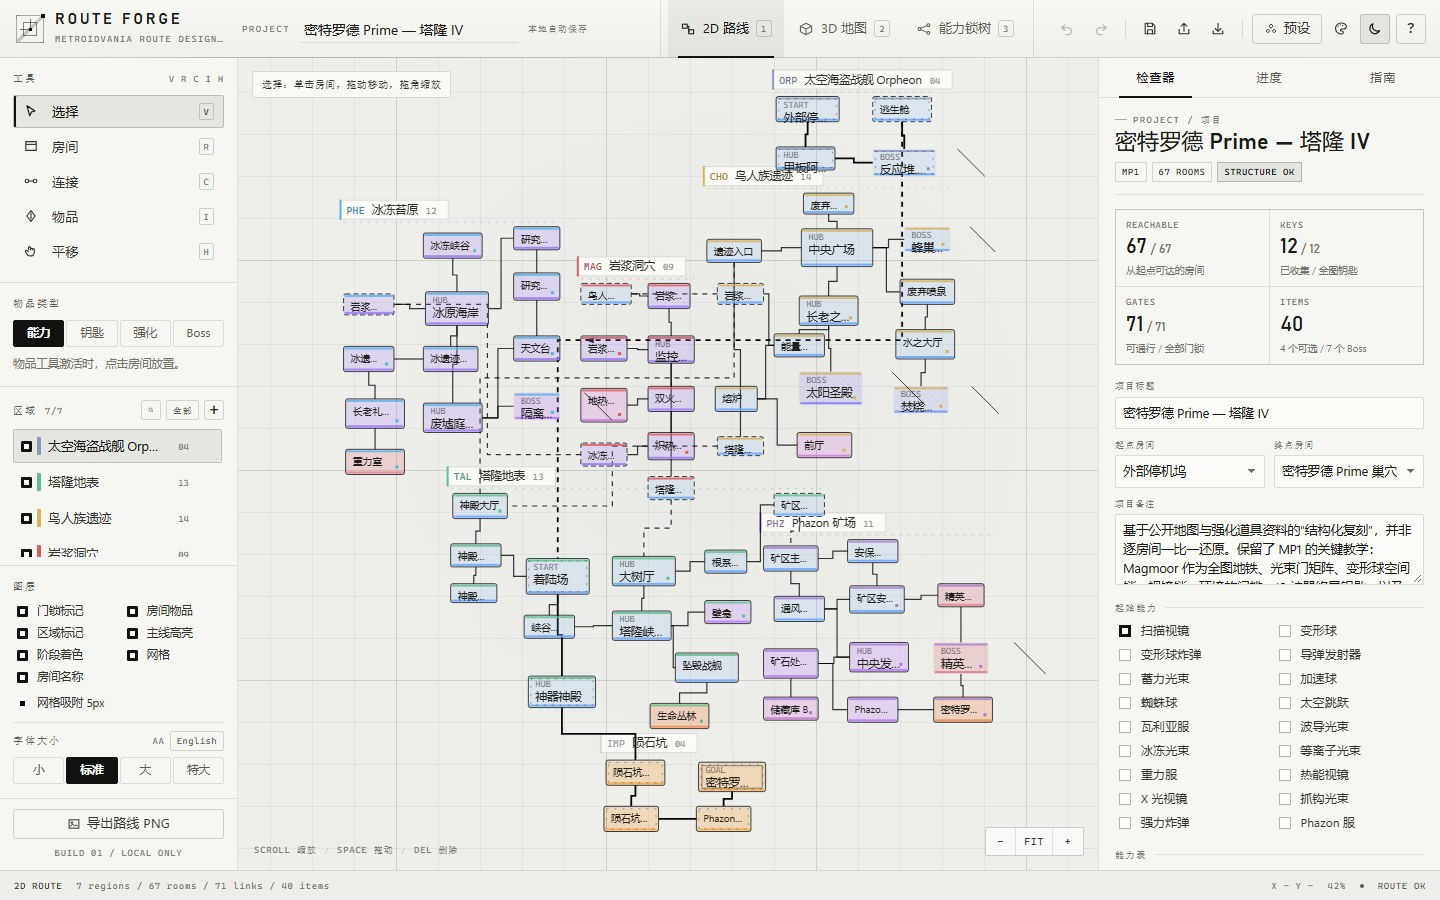
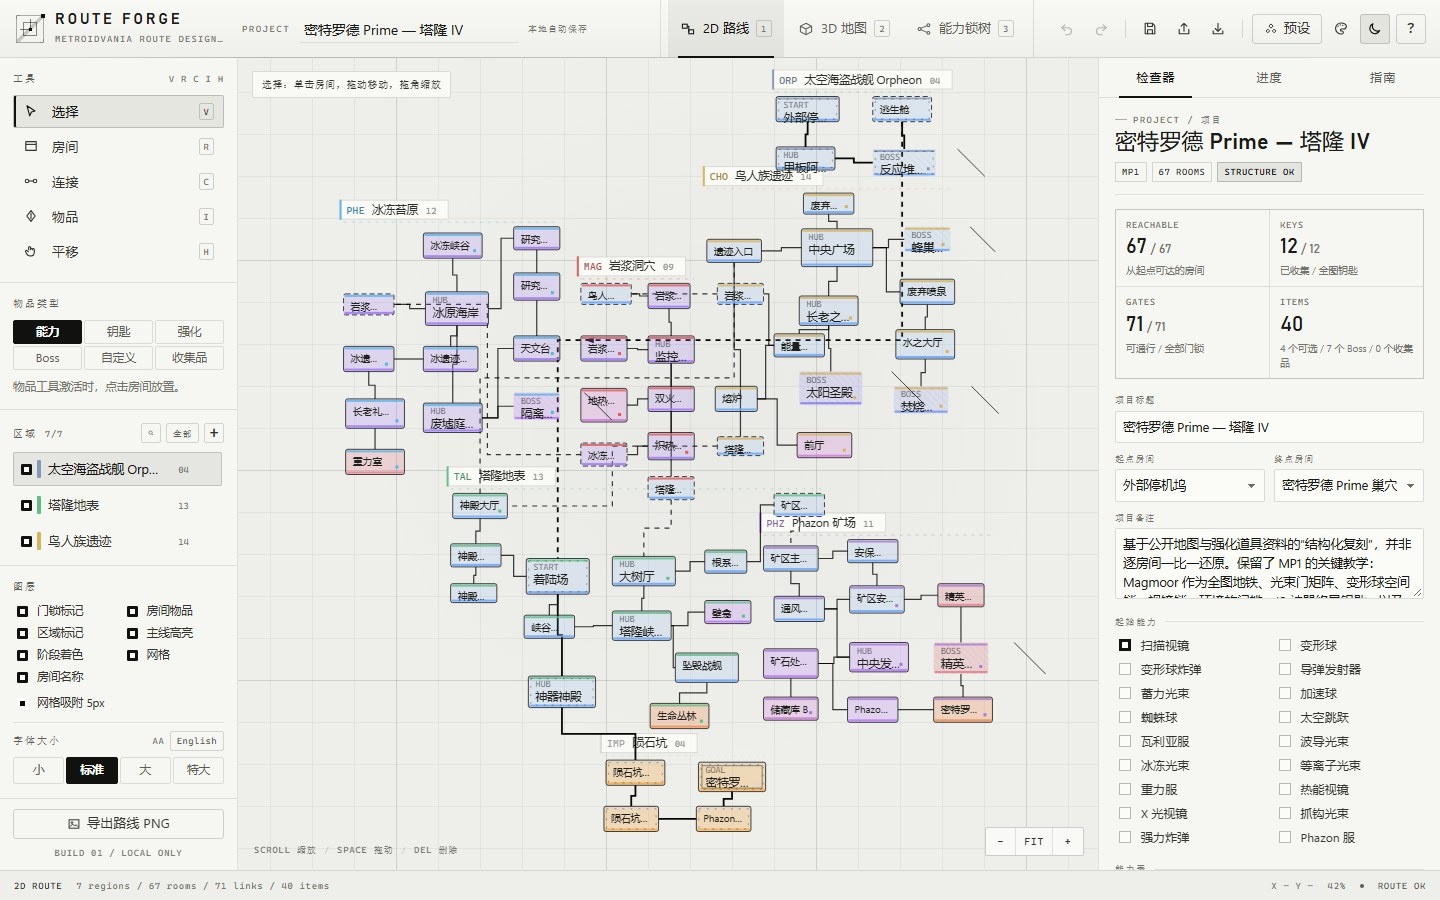
feat: add custom items and collectibles
Add custom and collectible item kinds, quick ability creation in item/link inspectors, and let custom abilities drive custom ability locks. Collectibles are hint-only: forced optional, no ability grant, excluded from the progression timeline and lock tree, but counted on the map and in project stats.

Changed region(s): [[0.7812, 0.4044, 1.0, 0.9644], [0.0, 0.3422, 0.1562, 0.6222]]

diff --git a/js/app.js b/js/app.js
@@ -161,7 +161,7 @@
     if (typeof savedUI.treeMainOnly === 'boolean') app.treeMainOnly = savedUI.treeMainOnly;
     if (savedUI.colorMode === 'mono' || savedUI.colorMode === 'color') app.colorMode = savedUI.colorMode;
     if (['inspect', 'progress', 'guide'].includes(savedUI.rightTab)) app.rightTab = savedUI.rightTab;
-    if (['ability', 'key', 'upgrade', 'boss'].includes(savedUI.itemKind)) app.itemKind = savedUI.itemKind;
+    if (['ability', 'key', 'upgrade', 'boss', 'custom', 'collectible'].includes(savedUI.itemKind)) app.itemKind = savedUI.itemKind;
     if (['select', 'room', 'connect', 'item', 'pan'].includes(savedUI.tool)) app.tool = savedUI.tool;
 
     let project = MV.loadProject();
@@ -813,9 +813,13 @@
           </select></label>
           ${numberField(L('钥匙数', 'Keys'), 'keyReq', link.keyReq, 1, 0)}
         </div>
-        <p class="hint-line">${esc(gate.desc)} ${L('修改门锁类型会重置下方能力需求；之后可继续自定义勾选。', 'Changing the gate type resets the ability requirements below; you can then customize them.')}</p>
+        <p class="hint-line">${esc(gate.desc)} ${L('选择「自定义能力锁」后可勾选任意能力；也可在下方新建能力并自动勾选。', 'Choose “Custom Ability Lock” to tick any ability, or create a new ability below and it will be checked automatically.')}</p>
         <div class="section-label">${L('能力需求', 'Ability Requirements')}</div>
         ${app.project.abilities.length ? `<div class="check-grid">${app.project.abilities.map(ability => `<label class="check-field"><input type="checkbox" data-field="requires" data-ability="${esc(ability.id)}" ${link.requires.includes(ability.id) ? 'checked' : ''}><span>${esc(MV.abilityName(app.project, ability.id))}</span></label>`).join('')}</div>` : `<p class="hint-line">${L('项目能力表为空，请先在项目检查器中添加能力。', 'The project ability list is empty. Add abilities in the project inspector first.')}</p>`}
+        <div class="inline-form ability-quick">
+          <input data-quick-ability placeholder="${L('新建能力并勾选，例如：二段跳', 'Create and check an ability, e.g. Double Jump')}" maxlength="24">
+          <button data-action="quick-ability" data-target="link" title="${L('新建并勾选能力', 'Create and check ability')}">+</button>
+        </div>
         ${missingAbilities.length ? `<div class="req-list">${missingAbilities.map(id => `<span class="req-chip missing">${L('缺失', 'Missing')}: ${esc(id)}</span>`).join('')}</div>` : ''}
         <div class="section-label">${L('状态', 'Status')}</div>
         <div class="req-list">
@@ -849,15 +853,24 @@
           <label class="field"><span>${L('类别', 'Kind')}</span><select data-field="kind">${MV.ITEM_KINDS.map(k => `<option value="${k.id}" ${k.id === item.kind ? 'selected' : ''}>${k.name}</option>`).join('')}</select></label>
           <label class="field"><span>${L('所在房间', 'Room')}</span><select data-field="room">${app.project.rooms.map(r => `<option value="${esc(r.id)}" ${r.id === item.room ? 'selected' : ''}>${esc(r.name)}</option>`).join('')}</select></label>
         </div>
+        ${item.kind !== 'collectible' ? `
         <label class="field"><span>${L('授予能力', 'Grants Ability')}</span><select data-field="grants">
           <option value="">${L('不授予', 'None')}</option>
           ${app.project.abilities.map(a => `<option value="${esc(a.id)}" ${a.id === item.grants ? 'selected' : ''}>${esc(MV.abilityName(app.project, a.id))} · ${esc(a.id)}</option>`).join('')}
         </select></label>
+        <div class="inline-form ability-quick">
+          <input data-quick-ability placeholder="${L('新建能力并授予，例如：二段跳', 'Create and grant an ability, e.g. Double Jump')}" maxlength="24">
+          <button data-action="quick-ability" data-target="item" title="${L('新建并授予能力', 'Create and grant ability')}">+</button>
+        </div>` : ''}
         ${item.kind === 'key' ? `<div class="form-grid two">${numberField(L('钥匙数量', 'Key Count'), 'keyCount', item.keyCount, 1, 1)}<div></div></div>` : ''}
-        <label class="check-field"><input type="checkbox" data-field="optional" ${item.optional ? 'checked' : ''}><span>${L('可选内容（不参与主线判定）', 'Optional (ignored by the main path)')}</span></label>
+        ${item.kind === 'collectible'
+          ? ''
+          : `<label class="check-field"><input type="checkbox" data-field="optional" ${item.optional ? 'checked' : ''}><span>${L('可选内容（不参与主线判定）', 'Optional (ignored by the main path)')}</span></label>`}
         <label class="field"><span>${L('备注', 'Note')}</span><textarea data-field="note" rows="2">${esc(item.note)}</textarea></label>
       </div>
-      <p class="hint-line">${L('授予能力：拾取后立即加入能力集合。用于能力道具、Boss 旗标或唯一钥匙。钥匙数量：会计入全局钥匙预算。', 'Grants ability: adds the ability as soon as the item is collected. Use it for ability items, boss flags or unique keys. Key count: contributes to the global key budget.')}</p>
+      <p class="hint-line">${item.kind === 'collectible'
+        ? L('收集品只作为“这里有东西”的地图提示，不会成为门锁需求。', 'Collectibles only mark “something is here” on the map and never become gate requirements.')
+        : L('授予能力：拾取后立即加入能力集合。自定义道具也可授予新建能力；新建能力会进入项目能力表，可用于任意自定义能力锁。', 'Grants ability: adds the ability as soon as the item is collected. Custom items can grant a newly created ability, which is added to the project list and can be used by any custom ability lock.')}</p>
       <div class="btn-row">
         <button class="btn" data-action="focus">${L('定位物品', 'Focus Item')}</button>
         <button class="btn btn-danger" data-action="delete-item">${L('删除物品', 'Delete Item')}</button>
@@ -910,7 +923,7 @@
         <div class="stat-cell"><div class="s-label">REACHABLE</div><div class="s-value">${app.analysis.stats.reachableRooms}<span style="font-size:calc(11px * var(--font-scale));color:var(--ink-4)"> / ${counts.rooms}</span></div><div class="s-sub">${L('从起点可达的房间', 'Rooms reachable from start')}</div></div>
         <div class="stat-cell"><div class="s-label">KEYS</div><div class="s-value">${app.analysis.keys}<span style="font-size:calc(11px * var(--font-scale));color:var(--ink-4)"> / ${app.analysis.keysTotal}</span></div><div class="s-sub">${L('已收集 / 全图钥匙', 'Collected / total keys')}</div></div>
         <div class="stat-cell"><div class="s-label">GATES</div><div class="s-value">${app.analysis.openCount}<span style="font-size:calc(11px * var(--font-scale));color:var(--ink-4)"> / ${counts.links}</span></div><div class="s-sub">${L('可通行 / 全部门锁', 'Passable / total gates')}</div></div>
-        <div class="stat-cell"><div class="s-label">ITEMS</div><div class="s-value">${counts.items}</div><div class="s-sub">${counts.optional} ${L('个可选', 'optional')} / ${counts.bosses} ${L('个 Boss', 'bosses')}</div></div>
+        <div class="stat-cell"><div class="s-label">ITEMS</div><div class="s-value">${counts.items}</div><div class="s-sub">${Math.max(0, counts.optional - counts.collectibles)} ${L('个可选', 'optional')} / ${counts.bosses} ${L('个 Boss', 'bosses')} / ${counts.collectibles} ${L('个收集品', 'collectibles')}</div></div>
       </div>
       <div class="form-grid">
         <label class="field"><span>${L('项目标题', 'Project Title')}</span><input data-field="title" value="${esc(app.project.meta.title || L('未命名路线', 'Untitled Route'))}"></label>
@@ -1071,7 +1084,8 @@
       if (field === 'name') { item.name = value || L('未命名物品', 'Untitled Item'); return true; }
       if (field === 'kind') {
         item.kind = value;
-        if (value === 'upgrade') item.optional = true;
+        if (value === 'upgrade' || value === 'collectible') item.optional = true;
+        if (value === 'collectible') item.grants = '';
         if (value !== 'key') item.keyCount = 1;
         return true;
       }
@@ -1122,6 +1136,7 @@
     else if (action === 'focus-region') focusRegion(app.selection.id);
     else if (action === 'delete-ability') deleteAbility(actionBtn.dataset.ability);
     else if (action === 'add-ability') addAbility();
+    else if (action === 'quick-ability') addQuickAbility(actionBtn);
     else if (action === 'open-presets') openPresetModal();
   }
 
@@ -1843,6 +1858,11 @@
       optional = true;
     } else if (kind === 'boss') {
       name = L('Boss ', 'Boss ') + (app.project.items.filter(item => item.kind === 'boss').length + 1);
+    } else if (kind === 'custom') {
+      name = L('自定义道具 ', 'Custom Item ') + (app.project.items.filter(item => item.kind === 'custom').length + 1);
+    } else if (kind === 'collectible') {
+      name = L('收集品 ', 'Collectible ') + (app.project.items.filter(item => item.kind === 'collectible').length + 1);
+      optional = true;
     }
     const item = {
       id: MV.uid('item'),
@@ -1912,6 +1932,37 @@
     toast(L('能力已删除', 'Ability deleted'));
   }
 
+  function addQuickAbility(button) {
+    const form = button ? button.closest('.ability-quick') : null;
+    const input = form ? form.querySelector('input') : null;
+    const name = input ? input.value.trim() : '';
+    if (!name) { toast(L('请输入能力名称', 'Enter an ability name'), true); return; }
+    snapshot();
+    let id = MV.uid('ability');
+    while (app.project.abilities.some(ability => ability.id === id)) id = MV.uid('ability');
+    app.project.abilities.push({ id, name });
+    let suffix = '';
+    if (app.selection) {
+      if (app.selection.type === 'item') {
+        const item = MV.findItem(app.project, app.selection.id);
+        if (item && item.kind !== 'collectible') {
+          item.grants = id;
+          suffix = L('（已授予）', ' (granted)');
+        }
+      } else if (app.selection.type === 'link') {
+        const link = MV.findLink(app.project, app.selection.id);
+        if (link) {
+          link.requires = Array.from(new Set([...(link.requires || []), id]));
+          suffix = L('（已勾选）', ' (checked)');
+        }
+      }
+    }
+    app.analysis = MV.analyze(app.project);
+    markDirty();
+    refreshAll();
+    toast(L('已新建能力：', 'Ability created: ') + name + suffix);
+  }
+
   /* ============================================================
      tools / modes / camera
      ============================================================ */
@@ -1950,7 +2001,7 @@
     } else {
       els.connectHint.hidden = true;
     }
-    const kindLabel = app.itemKind === 'ability' ? L('能力', 'Ability') : app.itemKind === 'key' ? L('钥匙', 'Key') : app.itemKind === 'upgrade' ? L('强化', 'Upgrade') : 'Boss';
+    const kindLabel = MV.itemKindById(app.itemKind).name;
     els.itemKindSeg.title = L('当前放置：', 'Placing: ') + kindLabel;
     updateCursor();
   }
@@ -3139,6 +3190,8 @@
           <p class="about-copy">The project autosaves to browser localStorage, and unsaved changes are flushed when the page is hidden or closed. The save button writes immediately; exporting JSON is the reliable long-term backup. Import backs up the current project to <span class="mono">routeforge.backup.v1</span>. PNG export re-lays out the entire 2D route independently of the current zoom.</p>
           <div class="section-label">Preset Notes</div>
           <p class="about-copy">The <strong>Metroid Prime</strong> preset is a <strong>structured reference</strong> assembled from public sources. It keeps the region ring, Magmoor hub, beam-gate matrix, Morph Ball spatial locks, visor locks, environmental gates and the 12-artifact endgame, but does not guarantee official room coordinates or item placements. Other presets are compressed structural references.</p>
+          <div class="section-label">Custom Items & Collectibles</div>
+          <p class="about-copy">Use the Custom item kind for project-specific pickups: name them, grant an existing or newly created ability, and that ability becomes available in every gate's Ability Requirements. The + field under Grants Ability / Ability Requirements creates a new project ability and immediately grants or checks it. Collectibles are map hints only: they do not grant abilities, count as keys, or enter the lock timeline.</p>
           <div class="section-label">Design Principle</div>
           <p class="about-copy">First draw “what the player must acquire,” then draw “how those abilities change spatial traversal.” The 2D view owns the causal chain; the 3D view owns massing and vertical relationships. The progress panel uses reachability analysis to check deadlocks, key budgets and unreachable rooms.</p>
         </div>
@@ -3190,6 +3243,8 @@
         <p class="about-copy">项目自动保存在浏览器 localStorage。顶栏的保存按钮会立即写入；导出 JSON 是长期备份的可靠方式。导入时会先备份当前项目到 <span class="mono">routeforge.backup.v1</span>。PNG 导出会重新排版整张 2D 路线图，不依赖当前缩放。</p>
         <div class="section-label">预设说明</div>
         <p class="about-copy"><strong>密特罗德 Prime</strong> 预设是基于公开资料的<strong>结构化复刻</strong>，保留了区域环、Magmoor 中枢、光束门矩阵、变形球空间锁、视镜锁、环境门槛与 12 神器终局，但不保证每个房间的坐标与道具位置与官方完全一致。其余预设为压缩后的结构参考。</p>
+        <div class="section-label">自定义道具与收集品</div>
+        <p class="about-copy">“自定义”道具用于创建项目专属拾取物：可自由命名、授予已有或新建能力，该能力会出现在所有门锁的“能力需求”中。物品检查器的“授予能力”下方、连接检查器的“能力需求”下方都有 + 输入框，可新建能力并立即授予 / 勾选。“收集品”只作为地图提示，不授予能力、不计钥匙、不进入锁钥时间轴。</p>
         <div class="section-label">设计原则</div>
         <p class="about-copy">先画出“玩家必须获得什么”，再画出“这些能力如何改变空间通行”。2D 视图负责因果链，3D 视图负责空间体块与垂直关系；进度面板用可达性分析检查锁死、钥匙预算与不可达房间。</p>
       </div>

diff --git a/js/core.js b/js/core.js
@@ -69,7 +69,9 @@
     { id: 'ability', name: '能力道具', nameEn: 'Ability Item', code: 'ABILITY', short: 'AB', color: '#64b5f6' },
     { id: 'key', name: '钥匙 / 神器', nameEn: 'Key / Artifact', code: 'KEY', short: 'KY', color: '#ffd54f' },
     { id: 'upgrade', name: '可选强化', nameEn: 'Optional Upgrade', code: 'UPGRADE', short: 'UP', color: '#4db6ac' },
-    { id: 'boss', name: 'Boss / 事件', nameEn: 'Boss / Event', code: 'BOSS', short: 'BS', color: '#ef5350' }
+    { id: 'boss', name: 'Boss / 事件', nameEn: 'Boss / Event', code: 'BOSS', short: 'BS', color: '#ef5350' },
+    { id: 'custom', name: '自定义道具', nameEn: 'Custom Item', code: 'CUS', short: 'CU', color: '#c7a6ff' },
+    { id: 'collectible', name: '收集品', nameEn: 'Collectible', code: 'COL', short: 'CO', color: '#f472b6' }
   ];
 
   function localizeCatalogEntry(entry, property, enProperty) {
@@ -480,6 +482,7 @@
       abilities: (project.abilities || []).length,
       keys: items.filter(i => i.kind === 'key').reduce((sum, i) => sum + (Number(i.keyCount) || 1), 0),
       bosses: items.filter(i => i.kind === 'boss').length,
+      collectibles: items.filter(i => i.kind === 'collectible').length,
       optional: items.filter(i => i.optional).length
     };
   }
@@ -641,14 +644,15 @@
       .filter(i => i && i.id && roomIds.has(String(i.room)))
       .map(i => {
         const kind = itemKindById(i.kind);
+        const collectible = kind.id === 'collectible';
         return {
           id: String(i.id),
           name: String(i.name || L('未命名物品', 'Untitled Item')),
           kind: kind.id,
           room: String(i.room),
-          grants: i.grants && project.abilities.some(a => a.id === i.grants) ? String(i.grants) : '',
+          grants: collectible ? '' : (i.grants && project.abilities.some(a => a.id === i.grants) ? String(i.grants) : ''),
           keyCount: Math.max(1, Number(i.keyCount) || 1),
-          optional: !!i.optional,
+          optional: collectible ? true : !!i.optional,
           note: String(i.note || '')
         };
       });

diff --git a/js/logic.js b/js/logic.js
@@ -128,6 +128,10 @@
         (itemsByRoom[roomId] || []).forEach(item => {
           if (collected.has(item.id)) return;
           collected.add(item.id);
+          /* Collectibles and custom flavour items are map hints only: they are
+             counted as collected but do not advance the progression timeline. */
+          const hintOnly = item.kind === 'collectible' || (item.kind === 'custom' && !item.grants);
+          if (hintOnly) return;
           let gained = '';
           if (item.grants) {
             gained = item.grants;
@@ -293,7 +297,9 @@
     });
 
     if (unreachableRooms.length) {
-      const withItems = items.filter(item => !finalReachable.has(item.room));
+      const withItems = items.filter(item => !finalReachable.has(item.room) &&
+        item.kind !== 'collectible' &&
+        !(item.kind === 'custom' && !item.grants));
       addWarning(
         withItems.length ? 'warn' : 'info',
         'unreachable-rooms',
@@ -347,6 +353,8 @@
         reachableRooms: finalReachable.size,
         items: items.length,
         collectedItems: collected.size,
+        collectibles: items.filter(item => item.kind === 'collectible').length,
+        collectedCollectibles: items.filter(item => item.kind === 'collectible' && collected.has(item.id)).length,
         abilities: (project.abilities || []).length,
         acquiredAbilities: abilities.size,
         keys: keys,

diff --git a/js/tree.js b/js/tree.js
@@ -48,7 +48,12 @@
     }
 
     const items = (project.items || []).filter(item => reachable.has(item.room));
-    const includedItems = items.filter(item => item.kind !== 'key' || !!item.grants);
+    const includedItems = items.filter(item => {
+      if (item.kind === 'collectible') return false;
+      if (item.kind === 'custom' && !item.grants) return false;
+      return item.kind !== 'key' || !!item.grants;
+    });
+    const collectibles = items.filter(item => item.kind === 'collectible');
     const unpickedKeys = items.filter(item => item.kind === 'key' && !item.grants);
 
     const itemStep = {};
@@ -221,6 +226,7 @@
         keys: unpickedKeys.length,
         optional: includedItems.filter(item => item.optional).length,
         unreachableItems: (project.items || []).filter(item => !reachable.has(item.room)).length,
+        collectibles: collectibles.length,
         cycles: 0
       }
     };

diff --git a/index.html b/index.html
@@ -112,6 +112,8 @@
           <button data-kind="key" data-i18n data-zh="钥匙" data-en="Key">钥匙</button>
           <button data-kind="upgrade" data-i18n data-zh="强化" data-en="Upgrade">强化</button>
           <button data-kind="boss">Boss</button>
+          <button data-kind="custom" data-i18n data-zh="自定义" data-en="Custom">自定义</button>
+          <button data-kind="collectible" data-i18n data-zh="收集品" data-en="Pickup" data-zh-title="收集品" data-en-title="Collectible" title="收集品">收集品</button>
         </div>
         <p class="micro-copy" data-i18n data-zh="物品工具激活时，点击房间放置。" data-en="With the item tool active, click a room to place it.">物品工具激活时，点击房间放置。</p>
       </section>

diff --git a/css/app.css b/css/app.css
@@ -257,6 +257,8 @@ a:hover { color: var(--white); border-color: var(--line-3); }
 }
 .segmented button:hover { color: var(--ink); border-color: var(--line-2); }
 .segmented button.is-active { background: var(--white); color: #0a0a0b; border-color: var(--white); font-weight: 600; }
+#itemKindSeg { grid-template-columns: repeat(3, 1fr); }
+#itemKindSeg button { height: 24px; }
 
 .region-list { display: flex; flex-direction: column; gap: 2px; overflow-y: auto; min-height: 0; padding-right: 2px; }
 .region-row {

diff --git a/CHANGELOG.md b/CHANGELOG.md
@@ -1,5 +1,27 @@
 # Changelog
 
+## 2026-11-28 — 自定义道具与收集品
+
+### Added
+
+- 新增“自定义道具”类别，可自由命名并授予已有或新建能力
+- 物品检查器和连接检查器新增快捷新建能力输入框：新建后立即授予道具 / 勾选为门锁需求
+- 新增“收集品”类别：只作为地图提示，不授予能力、不计钥匙、不进入锁钥时间轴
+- 项目检查器显示收集品数量
+- 中文 / 英文帮助补充自定义道具与收集品说明
+
+### Changed
+
+- 物品类型从 4 类扩展为 6 类，桌面 3 列 × 2 行、窄屏 2 列 × 3 行
+- 收集品在数据层强制为可选、无授予能力；自定义能力会进入项目能力表并可用于任意自定义能力锁
+
+### Validation
+
+- 创建自定义道具 → 快捷新建能力 → 能力自动授予
+- 用该自定义能力作为自定义能力锁需求，可达性分析无错误
+- 收集品不出现在锁钥时间轴与进度时间轴，但仍在地图和项目统计中显示
+- 1440×900 / 878×1024 / 145% 字体，中英文布局无溢出；控制台无错误
+
 ## 2026-11-24 — 3D 走廊分叉路由
 
 ### Changed

diff --git a/README.en.md b/README.en.md
@@ -23,7 +23,9 @@ Internal codename: **ROUTE FORGE**. Pure frontend, zero dependencies: open `inde
 - Drag to draw rooms, drag to move, drag a corner to resize
 - Room types: normal, start, hub, boss, save, elevator, hazard, goal
 - Region grouping and region colors
-- Place abilities, keys / artifacts, optional upgrades, bosses / events inside rooms
+- Place abilities, keys / artifacts, optional upgrades, bosses / events, custom items and collectibles inside rooms
+- Custom items can grant an existing or newly created ability. Both the item inspector and the link inspector can create a new ability and immediately grant / check it; the new ability can be used by any “Custom Ability Lock”
+- Collectibles are map hints only: they do not grant abilities, count as keys, or enter the lock timeline
 - Connect two rooms and choose a gate:
   - Beam gates (Ice / Wave / Plasma), Missile Door
   - Morph Ball tunnel, Bomb Slot, Boost Ball half-pipe, Spider Ball track

diff --git a/README.md b/README.md
@@ -23,7 +23,9 @@
 - 拖拽绘制房间，拖动移动，拖角缩放
 - 房间类型：普通、起点、枢纽、Boss、存档、升降机、环境危害、终点
 - 区域分组与区域颜色
-- 房间内放置能力、钥匙 / 神器、可选强化、Boss / 事件
+- 房间内放置能力、钥匙 / 神器、可选强化、Boss / 事件、自定义道具、收集品
+- 自定义道具可授予已有或新建能力；物品检查器和连接检查器都能直接新建能力并立即授予 / 勾选，新建能力可作为任意“自定义能力锁”的需求
+- 收集品只作为“这里有东西”的地图提示，不授予能力、不计入钥匙预算、不进入锁钥时间轴
 - 连接两个房间并选择门锁：
   - 光束门（冰冻 / 波导 / 等离子）、导弹门
   - 变形球通道、炸弹槽、加速球半管、蜘蛛球轨道
